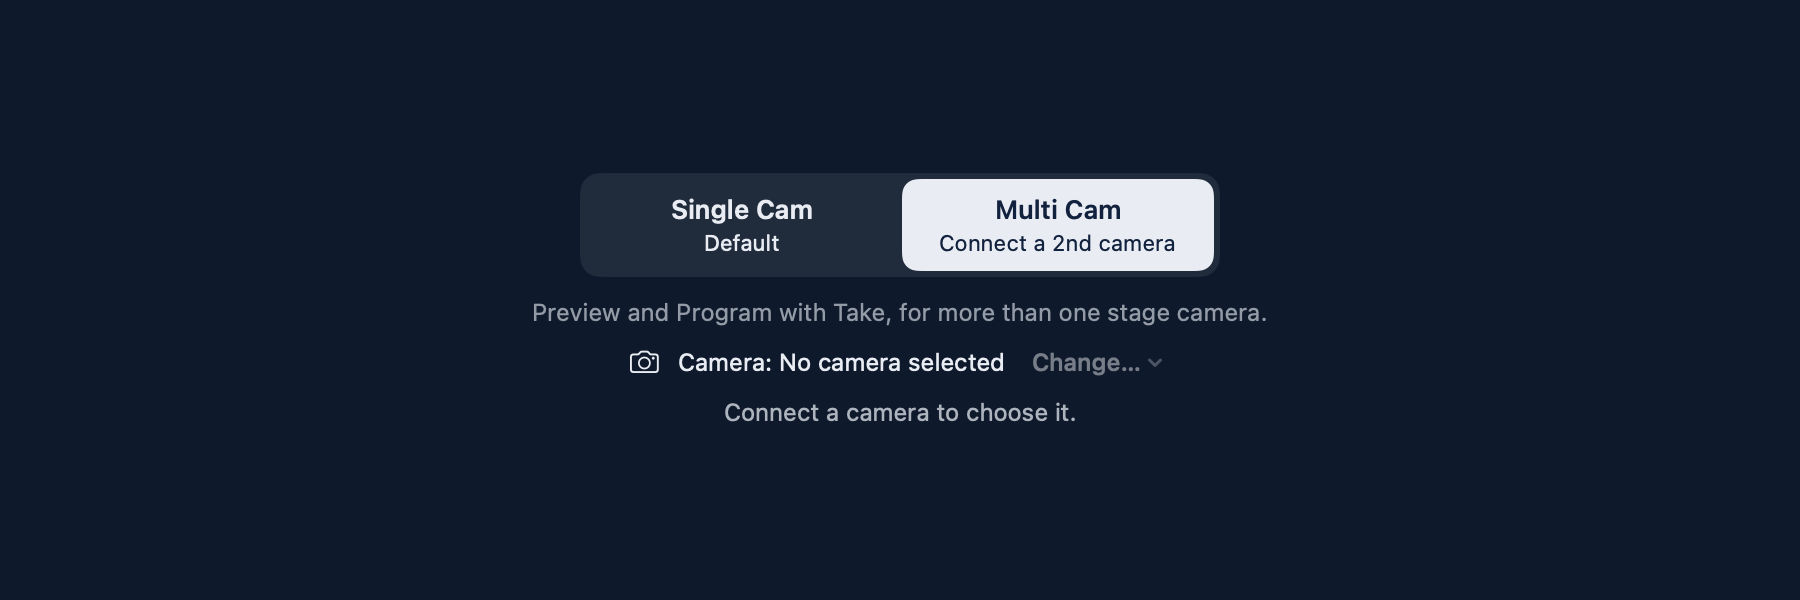
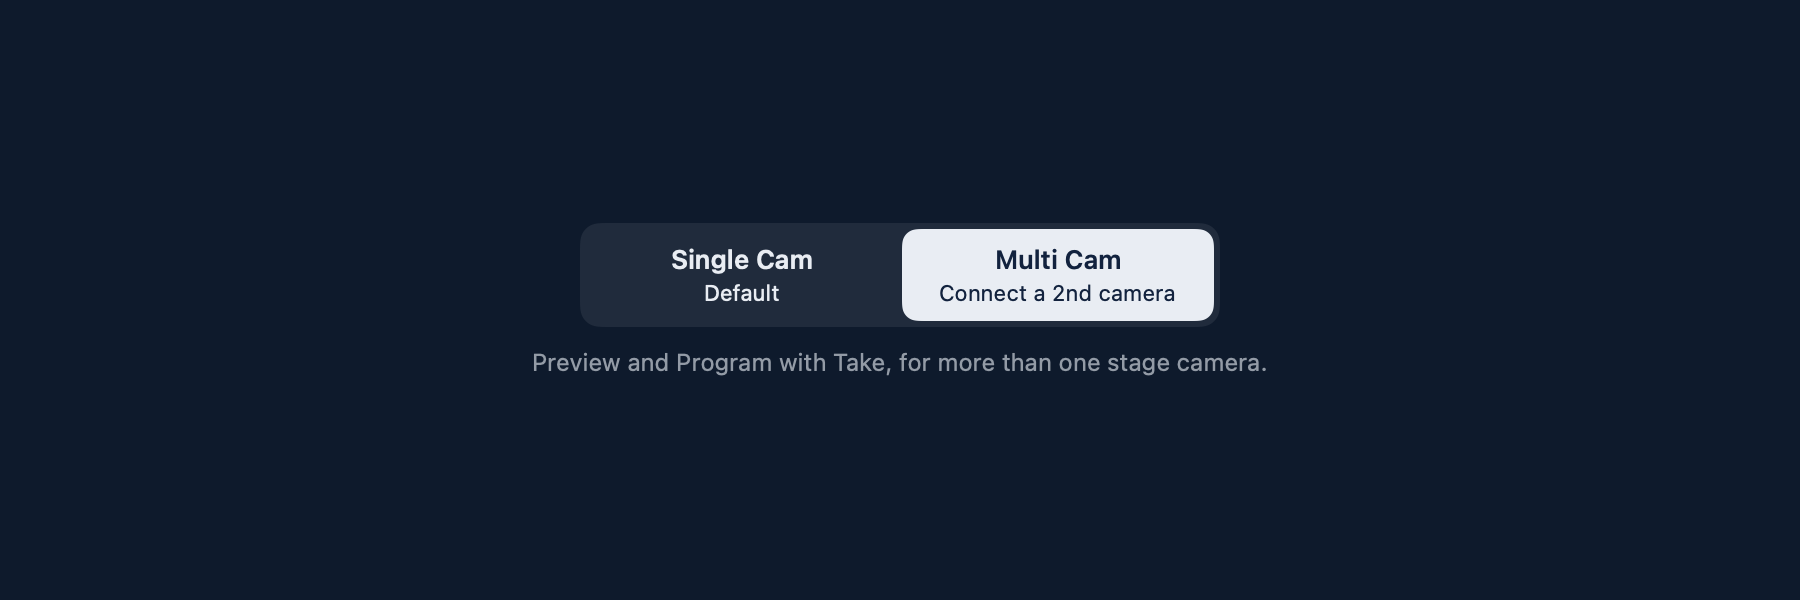
Review fix for UX-TC J2: no shared camera choice in Multi Cam
Multi Cam starts from its setup's A/B slot pickers, not selectedCamera,
so the stopped camera choice is hidden in Multi Cam and in the setup
header. The six Multi Cam mode captures are recaptured to match.

diff --git a/CinematicCoreMacOS/CinematicCoreMacOS/Console/OperatorModePicker.swift b/CinematicCoreMacOS/CinematicCoreMacOS/Console/OperatorModePicker.swift
@@ -49,7 +49,9 @@ struct OperatorModePicker: View {
     var body: some View {
         VStack(spacing: 10) {
             content
-            if let cameraChoice { OperatorCameraChoiceView(choice: cameraChoice) }
+            if let cameraChoice, Self.showsCameraChoice(mode: store.mode, style: style) {
+                OperatorCameraChoiceView(choice: cameraChoice)
+            }
         }
             .onChange(of: store.mode) { _, _ in refusal = nil }
             .onChange(of: isMultiCamEnabled) { wasEnabled, isEnabled in
@@ -151,6 +153,13 @@ struct OperatorModePicker: View {
         guard !choice.isEnabled else { return choice.mode.title }
         let count = cameras.count == 0 ? "no cameras found" : cameras.count == 1 ? "one camera found" : "\(cameras.count) cameras found"
         return "\(choice.mode.title), unavailable, \(count)"
+    }
+
+    /// The shared camera choice drives `selectedCamera`, which only Single
+    /// Cam and Webcam start from. Multi Cam starts from its setup's A/B slot
+    /// pickers, so its header never shows this choice (review of #123).
+    static func showsCameraChoice(mode: OperatorMode, style: Style) -> Bool {
+        mode != .multiCam && style != .setupHeader
     }
 
     /// The same offer rule for the segments and menu commands; a retained

diff --git a/CinematicCoreMacOS/CinematicCoreMacOSTests/ModePickerGallerySnapshotTests.swift b/CinematicCoreMacOS/CinematicCoreMacOSTests/ModePickerGallerySnapshotTests.swift
@@ -25,6 +25,16 @@ struct ModePickerGallerySnapshotTests {
             name: "mode-\(mode.rawValue)-\(count)", dark: dark, width: 900, height: 300)
     }
 
+    /// Review of #123: Multi Cam starts from its setup's A/B slots, so the
+    /// shared camera choice is never offered there.
+    @Test func cameraChoiceIsOfferedOnlyForSingleCamAndWebcam() {
+        #expect(OperatorModePicker.showsCameraChoice(mode: .singleCam, style: .stoppedScreen))
+        #expect(OperatorModePicker.showsCameraChoice(mode: .webcam, style: .stoppedScreen))
+        #expect(!OperatorModePicker.showsCameraChoice(mode: .multiCam, style: .stoppedScreen))
+        #expect(!OperatorModePicker.showsCameraChoice(mode: .singleCam, style: .setupHeader))
+        #expect(!OperatorModePicker.showsCameraChoice(mode: .multiCam, style: .setupHeader))
+    }
+
     @Test func unavailableVoiceOverIncludesCameraCount() throws {
         let cameras = OperatorModeChoice.Cameras(count: 1, hasBuiltIn: true)
         let choice = try #require(OperatorModeChoice.choices(available: OperatorMode.allCases,

diff --git a/CinematicCoreMacOS/CinematicCoreMacOS/ContentView.swift b/CinematicCoreMacOS/CinematicCoreMacOS/ContentView.swift
@@ -100,7 +100,9 @@ struct ContentView: View {
     }
 
     private var stoppedCameraChoice: OperatorCameraChoice? {
-        guard isStopped, cameraManager.preferredInputSource == .liveCamera else { return nil }
+        // Multi Cam starts from its setup's A/B slots, not `selectedCamera`.
+        guard isStopped, operatorModes.mode != .multiCam,
+              cameraManager.preferredInputSource == .liveCamera else { return nil }
         return OperatorCameraChoice(selectedID: cameraManager.selectedCamera?.uniqueID,
             name: cameraManager.selectedCamera?.name ?? "No camera selected",
             options: cameraManager.availableCameras.map { .init(id: $0.uniqueID, name: $0.name) },
